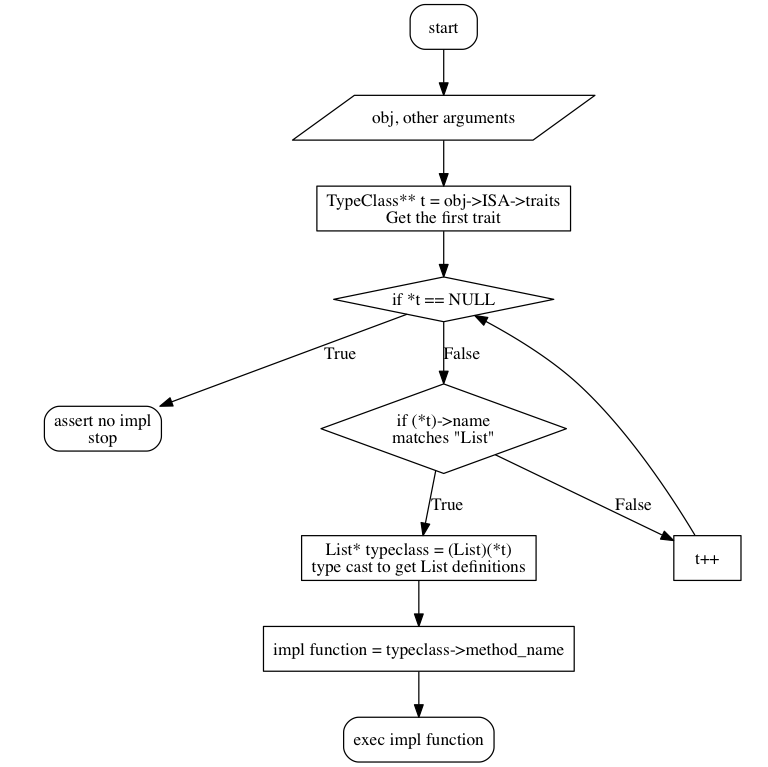
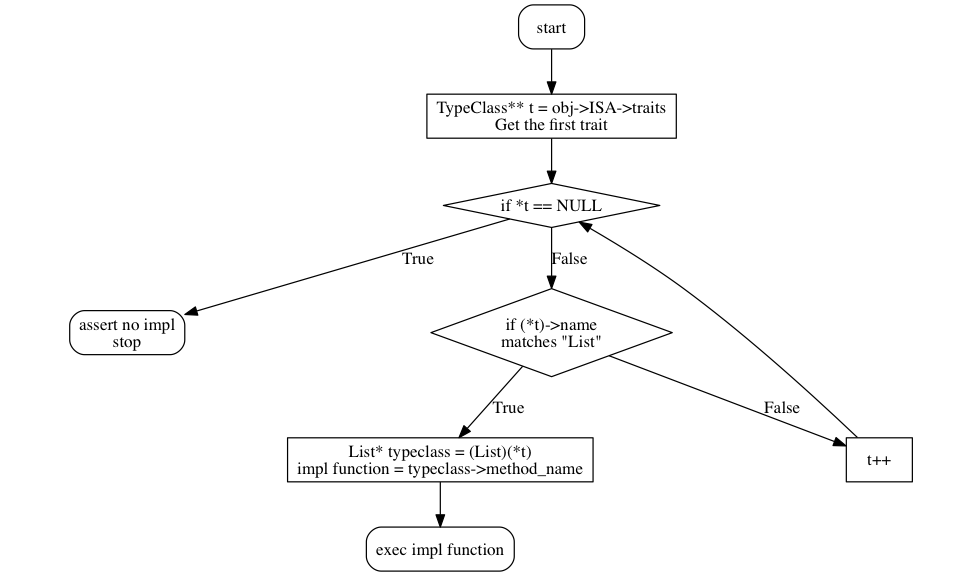
finally made flowchart smaller

diff --git a/index.html b/index.html
@@ -26,7 +26,7 @@
 <body>
 <div class="reveal">
 <div class="slides">
-<section id="sec-title-slide"><h1 class="title">OPIC (Object Persistence in C)</h1><h2 class="author">Felix Chern (dryman)</h2><p class="date">Created: 2016-09-02 Fri 09:31</p>
+<section id="sec-title-slide"><h1 class="title">OPIC (Object Persistence in C)</h1><h2 class="author">Felix Chern (dryman)</h2><p class="date">Created: 2016-09-03 Sat 10:47</p>
 </section>
 <section id="table-of-contents">
 <div id="table-of-contents">
@@ -86,26 +86,30 @@
 <li><a href="#/slide-orgheadline28">12.3. LinkedList Class (cont.)</a></li>
 </ul>
 </li>
-<li><a href="#/slide-orgheadline31">13. Generic Function in C (1)</a>
+<li><a href="#/slide-orgheadline32">13. Generic Function in C (1)</a>
 <ul>
 <li><a href="#/slide-orgheadline30">13.1. Generic Function in C (2)</a></li>
+<li><a href="#/slide-orgheadline31">13.2. Generic Function in C (3)</a></li>
 </ul>
 </li>
-<li><a href="#/slide-orgheadline34">14. Integrate OPIC OO system with serialization</a>
+<li><a href="#/slide-orgheadline35">14. Integrate OPIC OO system with serialization</a>
 <ul>
-<li><a href="#/slide-orgheadline32">14.1. Serializing:</a></li>
-<li><a href="#/slide-orgheadline33">14.2. deserializing</a></li>
+<li><a href="#/slide-orgheadline33">14.1. Serializing:</a></li>
+<li><a href="#/slide-orgheadline34">14.2. deserializing</a></li>
 </ul>
 </li>
-<li><a href="#/slide-orgheadline37">15. Final notes</a>
+<li><a href="#/slide-orgheadline38">15. Other notes</a>
 <ul>
-<li><a href="#/slide-orgheadline35">15.1. trade-offs in design (1)</a></li>
-<li><a href="#/slide-orgheadline36">15.2. trade-offs in design (2)</a></li>
+<li><a href="#/slide-orgheadline36">15.1. trade-offs in design (1)</a></li>
+<li><a href="#/slide-orgheadline37">15.2. trade-offs in design (2)</a></li>
 </ul>
 </li>
-<li><a href="#/slide-orgheadline38">16. Future challenges and roadmap</a></li>
-<li><a href="#/slide-orgheadline39">17. Roadmap 2 (nice to have)</a></li>
-<li><a href="#/slide-orgheadline40">18. Thank you</a></li>
+<li><a href="#/slide-orgheadline40">16. Future challenges and roadmap</a>
+<ul>
+<li><a href="#/slide-orgheadline39">16.1. Roadmap 2 (nice to have)</a></li>
+</ul>
+</li>
+<li><a href="#/slide-orgheadline41">17. Thank you</a></li>
 </ul>
 </div>
 </div>
@@ -571,8 +575,8 @@ There are three types of pointers that we need to handle:
 </section>
 </section>
 <section>
-<section id="slide-orgheadline31">
-<h2 id="orgheadline31"><span class="section-number-2">13</span> Generic Function in C (1)</h2>
+<section id="slide-orgheadline32">
+<h2 id="orgheadline32"><span class="section-number-2">13</span> Generic Function in C (1)</h2>
 <ul>
 <li>Goal: a C function that behave differently by object passed in.</li>
 
@@ -592,16 +596,15 @@ There are three types of pointers that we need to handle:
 </section>
 <section id="slide-orgheadline30">
 <h3 id="orgheadline30"><span class="section-number-3">13.1</span> Generic Function in C (2)</h3>
-<p>
-Initial design
-</p>
-
 
 <div class="figure">
 <p><img src="img/generic_function.png" alt="generic_function.png" />
 </p>
 </div>
 
+</section>
+<section id="slide-orgheadline31">
+<h3 id="orgheadline31"><span class="section-number-3">13.2</span> Generic Function in C (3)</h3>
 <ul>
 <li>Implementation of</li>
 <li>list is a generic list, could be array list, linked list, etc.</li>
@@ -622,12 +625,12 @@ Initial design
 </section>
 </section>
 <section>
-<section id="slide-orgheadline34">
-<h2 id="orgheadline34"><span class="section-number-2">14</span> Integrate OPIC OO system with serialization</h2>
+<section id="slide-orgheadline35">
+<h2 id="orgheadline35"><span class="section-number-2">14</span> Integrate OPIC OO system with serialization</h2>
 <div class="outline-text-2" id="text-14">
 </div></section>
-<section id="slide-orgheadline32">
-<h3 id="orgheadline32"><span class="section-number-3">14.1</span> Serializing:</h3>
+<section id="slide-orgheadline33">
+<h3 id="orgheadline33"><span class="section-number-3">14.1</span> Serializing:</h3>
 <ul>
 <li>Each object has one out-bound pointer (ISA)</li>
 <li>Serializing steps
@@ -646,8 +649,8 @@ Initial design
 
 </ul>
 </section>
-<section id="slide-orgheadline33">
-<h3 id="orgheadline33"><span class="section-number-3">14.2</span> deserializing</h3>
+<section id="slide-orgheadline34">
+<h3 id="orgheadline34"><span class="section-number-3">14.2</span> deserializing</h3>
 <ul>
 <li>Read the type info from type header</li>
 <li>Find the type ISA in global type map</li>
@@ -664,12 +667,12 @@ Initial design
 </section>
 </section>
 <section>
-<section id="slide-orgheadline37">
-<h2 id="orgheadline37"><span class="section-number-2">15</span> Final notes</h2>
+<section id="slide-orgheadline38">
+<h2 id="orgheadline38"><span class="section-number-2">15</span> Other notes</h2>
 <div class="outline-text-2" id="text-15">
 </div></section>
-<section id="slide-orgheadline35">
-<h3 id="orgheadline35"><span class="section-number-3">15.1</span> trade-offs in design (1)</h3>
+<section id="slide-orgheadline36">
+<h3 id="orgheadline36"><span class="section-number-3">15.1</span> trade-offs in design (1)</h3>
 <ul>
 <li>No inheritance, even though it could be implemented
 <ul>
@@ -687,8 +690,8 @@ Initial design
 
 </ul>
 </section>
-<section id="slide-orgheadline36">
-<h3 id="orgheadline36"><span class="section-number-3">15.2</span> trade-offs in design (2)</h3>
+<section id="slide-orgheadline37">
+<h3 id="orgheadline37"><span class="section-number-3">15.2</span> trade-offs in design (2)</h3>
 <ul>
 <li>Only support 64bit machines, may limit to <code>x86_64</code>
 <ul>
@@ -709,8 +712,8 @@ Initial design
 </section>
 </section>
 <section>
-<section id="slide-orgheadline38">
-<h2 id="orgheadline38"><span class="section-number-2">16</span> Future challenges and roadmap</h2>
+<section id="slide-orgheadline40">
+<h2 id="orgheadline40"><span class="section-number-2">16</span> Future challenges and roadmap</h2>
 <ul>
 <li>concurrent memory manager (C11 atomic)</li>
 <li>cross memory manager reference</li>
@@ -723,10 +726,8 @@ Initial design
 </ul>
 
 </section>
-</section>
-<section>
 <section id="slide-orgheadline39">
-<h2 id="orgheadline39"><span class="section-number-2">17</span> Roadmap 2 (nice to have)</h2>
+<h3 id="orgheadline39"><span class="section-number-3">16.1</span> Roadmap 2 (nice to have)</h3>
 <ul>
 <li>Implement a mysql storage engine based on OPIC</li>
 <li>Distributed OLAP prototype.</li>
@@ -748,8 +749,8 @@ Initial design
 </section>
 </section>
 <section>
-<section id="slide-orgheadline40">
-<h2 id="orgheadline40"><span class="section-number-2">18</span> Thank you</h2>
+<section id="slide-orgheadline41">
+<h2 id="orgheadline41"><span class="section-number-2">17</span> Thank you</h2>
 </section>
 </section>
 </div>
